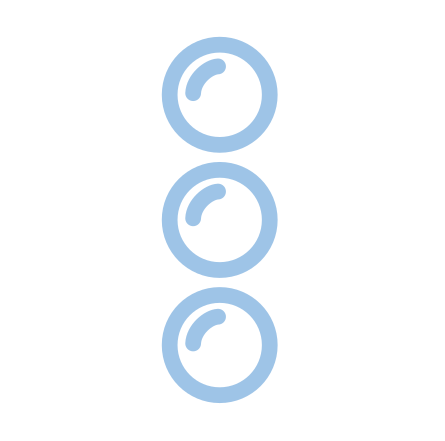
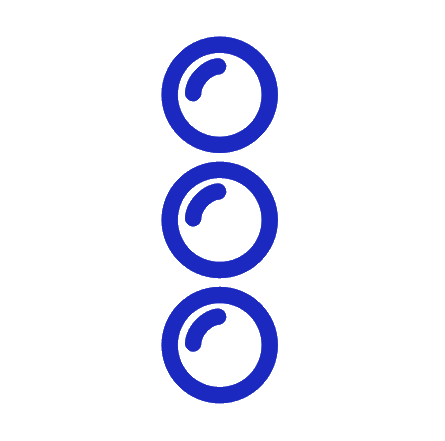
Colour scheme update

Changed region(s): [[0.3506, 0.059, 0.6427, 0.9138]]

diff --git a/html/bubble/css/style.css b/html/bubble/css/style.css
@@ -10,12 +10,12 @@ h2 {
 }
 
 a {
-    color: rgb(109, 171, 166);
+    color: rgb(226, 183, 28);
     font-weight: 900;
 }
 
 a:hover, .nav-link.active {
-    color: rgb(56, 56, 56);
+    color: rgb(226, 183, 28)!important;
 }
 
 .text-center {
@@ -25,15 +25,15 @@ a:hover, .nav-link.active {
 
 .btn-outline-info {
     transition: 0.25s ease;
-    color: rgb(109, 171, 166)!important;
-    border: 2px solid rgb(109, 171, 166)!important;
+    color: rgb(56, 56, 56)!important;
+    border: 2px solid rgb(56, 56, 56)!important;
     font-weight: 900;
 }
 
 .btn-outline-info:hover {
-    color: rgb(109, 171, 166)!important;
-    background-color: rgba(200, 211, 209, 0.7)!important;
-    border: 2px solid rgb(109, 171, 166)!important;
+    color: rgb(56, 56, 56)!important;
+    background-color: rgb(226, 183, 28)!important;
+    border: 2px solid rgb(56, 56, 56)!important;
     transition: 0.25s ease;
     transform: scale(1.05);
     -webkit-transform: scale(1.05);
@@ -50,11 +50,11 @@ ul {
 
 /* Handle */
 ::-webkit-scrollbar-thumb {
-    background: rgb(109, 171, 166);
+    background: rgb(226, 183, 28);
 }
 
 .red-text {
-    color: rgb(109, 171, 166)!important;
+    color: rgb(226, 183, 28)!important;
 }
 
 .front-img {
@@ -62,7 +62,7 @@ ul {
 }
 
 .nav-link {
-    color: rgb(109, 171, 166);
+    color: rgb(56,56,56);
 }
 
 .form-row {
@@ -103,12 +103,30 @@ ul {
     border-top: none;
 }
 
+.card:nth-of-type(even) {
+    border-radius: 0!important;
+}
+
+.card:nth-of-type(odd) {
+    border-radius: 0!important;
+}
+
+.card:nth-last-child(1) {
+    border-bottom-right-radius: 0.25rem!important;
+    border-bottom-left-radius: 0.25rem!important;
+}
+
+.card:nth-child(2) {
+    border-top-right-radius: 0.25rem!important;
+    border-top-left-radius: 0.25rem!important;
+}
+
 .accordion {
     border-bottom: 1px solid rgba(0,0,0,0.125);
 }
 
 .text-light {
-    color: rgb(56, 56, 56)!important;
+    color: rgb(56,56,56)!important;
 }
 
 .mb-4, .my-4 {
@@ -119,11 +137,17 @@ ul {
 }
 
 .my-4 {
-    border: 2px solid rgb(109, 171, 166)!important;
+    border: 2px solid rgb(56, 56, 56)!important;
 }
 
 .grey-out:nth-of-type(odd), .card-header{
-    background-color: rgba(0, 0, 0, 0.05)!important;
+    background-color: rgb(56,56,56)!important;
+    color: rgb(226, 183, 28)!important;
+}
+
+.grey-out:nth-of-type(even) {
+    border-left: 1px solid rgb(56,56,56)!important;
+    border-right: 1px solid rgb(56,56,56)!important;
 }
 
 .col-lg {
@@ -136,7 +160,7 @@ ul {
 }
 
 .navbar.navbar-dark .breadcrumb .nav-item .nav-link, .navbar.navbar-dark .navbar-nav .nav-item .nav-link {
-    color: rgb(109, 171, 166)!important;
+    color: rgb(56,56,56)!important;
 }
 
 .border {
@@ -210,7 +234,8 @@ table td {
 }
 
 .account-row:nth-of-type(even), .account-first, .stats-row:nth-of-type(even), .stats-row:nth-of-type(0) {
-    background-color: rgba(0, 0, 0, 0.05)!important;
+    color: rgb(226, 183, 28)!important;
+    background-color: rgb(56,56,56)!important;
 }
 
 .right-column {
@@ -329,4 +354,8 @@ select {
 
 .budget-input label {
     margin-left: 15px!important;
+}
+
+.text-dark {
+    color: rgb(56, 56, 56)!important;
 }

diff --git a/html/bubble/uiAssets/content_tab_homes.php b/html/bubble/uiAssets/content_tab_homes.php
@@ -282,8 +282,8 @@ function generateHomeTab()
                                                                 labels: ["Spent [£]", "Remaining [£]"],
                                                                 datasets: [{
                                                                 data: [$cost_day_round, $budget_day_remaining_round],
-                                                                backgroundColor: ["rgba(109, 171, 166, 1)", "rgba(0, 0, 0, 0.1)"],
-                                                                hoverBackgroundColor: ["rgba(99, 161, 156, 1)", "rgba(0, 0, 0, 0.15)"]
+                                                                backgroundColor: ["rgb(226, 183, 28)", "rgb(56,56,56)"],
+                                                                hoverBackgroundColor: ["rgb(246, 203, 48)", "rgb(76,76,76)"]
                                                                 }]
                                                                 },
                                                                 options: {
@@ -312,8 +312,8 @@ function generateHomeTab()
                                                             labels: ["Spent [£]", "Remaining [£]"],
                                                             datasets: [{
                                                             data: [$cost_month_round, $budget_remaining_round],
-                                                            backgroundColor: ["rgba(109, 171, 166, 1)", "rgba(0, 0, 0, 0.1)"],
-                                                            hoverBackgroundColor: ["rgba(99, 161, 156, 1)", "rgba(0, 0, 0, 0.15)"]
+                                                            backgroundColor: ["rgb(226, 183, 28)", "rgb(56,56,56)"],
+                                                            hoverBackgroundColor: ["rgb(246, 203, 48)", "rgb(76,76,76)"]
                                                             }]
                                                             },
                                                             options: {
@@ -340,8 +340,8 @@ function generateHomeTab()
                                                                 labels: ["Spent [£]", "Budget [£]"],
                                                                 datasets: [{
                                                                 data: [$cost_year_round, $budget_year_remaining_round],
-                                                                backgroundColor: ["rgba(109, 171, 166, 1)", "rgba(0, 0, 0, 0.1)"],
-                                                                hoverBackgroundColor: ["rgba(99, 161, 156, 1)", "rgba(0, 0, 0, 0.15)"]
+                                                                backgroundColor: ["rgb(226, 183, 28)", "rgb(56,56,56)"],
+                                                                hoverBackgroundColor: ["rgb(246, 203, 48)", "rgb(76,76,76)"]
                                                                 }]
                                                                 },
                                                                 options: {
@@ -385,11 +385,11 @@ function generateHomeTab()
                                         //Supplied Datasets to display
                                         //hourly 1 upto 24
                                         //TODO change expected usage to power genarated once implmented
-                                        let data1 = { "labels": $DataLabelsYearEncoded,"label": "Expected Usage: ", "datasets": [{ "label": "Average", "data": $dataAvgYearEncoded, "backgroundColor": "rgba(109, 171, 166, 0)", "borderColor": "rgba(109, 171, 166, 1)", "borderWidth": 2 },{ "label": "Power Usage", "data": $dataPointsYearEncoded, "backgroundColor": "rgba(0, 0, 0, 0.1)", "borderColor": "rgba(56, 56, 56, 1)", "borderWidth": 1 }] };
+                                        let data1 = { "labels": $DataLabelsYearEncoded,"label": "Expected Usage: ", "datasets": [{ "label": "Average", "data": $dataAvgYearEncoded, "backgroundColor": "rgba(109, 171, 166, 0)", "borderColor": "rgb(226, 183, 28)", "borderWidth": 2 },{ "label": "Power Usage", "data": $dataPointsYearEncoded, "backgroundColor": "rgb(56,56,56)", "borderColor": "rgba(56, 56, 56, 1)", "borderWidth": 1 }] };
                                         //days upto 31 days
-                                        let data2 = { "labels": $DataLabelsMonthEncoded,"label": "Expected Usage:", "datasets": [{ "label": "Average", "data": $dataAvgMonthEncoded, "backgroundColor": "rgba(109, 171, 166, 0)", "borderColor": "rgba(109, 171, 166, 1)", "borderWidth": 2 },{ "label": "Power Usage", "data": $dataPointsMonthEncoded, "backgroundColor": "rgba(0, 0, 0, 0.1)", "borderColor": "rgba(56, 56, 56, 1)", "borderWidth": 1 }] };
+                                        let data2 = { "labels": $DataLabelsMonthEncoded,"label": "Expected Usage:", "datasets": [{ "label": "Average", "data": $dataAvgMonthEncoded, "backgroundColor": "rgba(109, 171, 166, 0)", "borderColor": "rgb(226, 183, 28)", "borderWidth": 2 },{ "label": "Power Usage", "data": $dataPointsMonthEncoded, "backgroundColor": "rgb(56,56,56)", "borderColor": "rgba(56, 56, 56, 1)", "borderWidth": 1 }] };
                                         //months upto 12
-                                        let data3 = { "labels": $DataLabelsDayEncoded,"label": "Expected Usage: ", "datasets": [{ "label": "Average", "data": $dataAvgDayEncoded, "backgroundColor": "rgba(109, 171, 166, 0)", "borderColor": "rgba(109, 171, 166, 1)", "borderWidth": 2 },{ "label": "Power Usage", "data": $dataPointsDayEncoded, "backgroundColor": "rgba(0, 0, 0, 0.1)", "borderColor": "rgba(56, 56, 56, 1)", "borderWidth": 1 }] };
+                                        let data3 = { "labels": $DataLabelsDayEncoded,"label": "Expected Usage: ", "datasets": [{ "label": "Average", "data": $dataAvgDayEncoded, "backgroundColor": "rgba(109, 171, 166, 0)", "borderColor": "rgb(226, 183, 28)", "borderWidth": 2 },{ "label": "Power Usage", "data": $dataPointsDayEncoded, "backgroundColor": "rgb(56,56,56)", "borderColor": "rgba(56, 56, 56, 1)", "borderWidth": 1 }] };
                                         
 
                                         // Draw the initial chart

diff --git a/html/bubble/uiAssets/content_tab_devices.php b/html/bubble/uiAssets/content_tab_devices.php
@@ -21,11 +21,11 @@ function generateDeviceTab(){
         
                 <!--Title-->      
                     <div class="d-flex flex-column">  
-                        Add new device
+                        <strong>Add new device</strong>
                     </div>
                     
                     <div class="d-flex flex-column">
-                        <i class="far fa-plus-square"></i>
+                        <strong><i class="far fa-plus-square"></i></strong>
                     </div>
                 </div>
             </div>
@@ -66,7 +66,6 @@ html;
                 $room_type = $row4['room_name'];
 
                 //todo intagrate in to device page?
-                
 
 
                 $html .= <<<html
@@ -83,7 +82,7 @@ html;
                         <!--Title-->      
                         <div class="d-flex flex-column">  
                             <div class="flex-sm-row">
-                                $icon &nbsp; $device_name
+                                $icon &nbsp; <strong>$device_name</strong>
                             </div>
                             <div class="flex-sm-row">
                                 &nbsp;&nbsp;&nbsp;&nbsp;&nbsp;&nbsp;Room: $room_type
@@ -96,14 +95,15 @@ html;
                             <!-- Default switch -->
                             <div class="custom-control custom-switch">
                                <form action="#" method="POST">
-                                    <input type="checkbox" class="custom-control-input" id="$device_name" name="Group+$room_id" onclick="toggleDevice($device_id)">
-                                    <label class="custom-control-label" for="$device_name">off/on</label>
+                                    <input type="checkbox" class="custom-control-input" id="$device_name" name="Group+$room_id" onclick="alter_database($room_id)">
+                                    <label class="custom-control-label" for="$device_name"><strong>off/on</strong></label>
                                </form>
                             </div>
                         </div>
                     </div>
                 </div>
 html;
+                
                 $stmt3->close();
             }
         }
@@ -120,7 +120,7 @@ function deviceCat($device_type, $device_name)
         $optionType = "<form class=\"range-field\" for=\"$device_name\"><input type=\"range\" min=\"0c\" max=\"40c\" /></form>";
         //todo add option for different temp measurements farnehight, celcus
     } else {
-        $optionType = "<label class=\"custom-control-label\" for=\"$device_name\">off/on</label>";
+        $optionType = "<label class=\"custom-control-label\" for=\"$device_name\"><strong>off/on</strong></label>";
     }
     return $optionType;
 }

diff --git a/html/bubble/uiAssets/content_tab_rooms.php b/html/bubble/uiAssets/content_tab_rooms.php
@@ -29,11 +29,11 @@ function generateRoomTab(){
               
                     <!--Title-->      
                         <div class="d-flex flex-column">  
-                            Add new room
+                            <strong>Add new room</strong>
                         </div>
                         
                         <div class="d-flex flex-column">
-                            <i class="far fa-plus-square"></i>
+                            <strong><i class="far fa-plus-square"></i></strong>
                         </div>
                     </div>
                 </div>
@@ -65,7 +65,7 @@ html;
                     <!--Title-->      
                         <div class="d-flex flex-column">  
                             <div class="row">
-                                $iconText &nbsp; $room_name
+                                $iconText &nbsp; <strong>$room_name</strong>
                             </div>
                         </div>
                         
@@ -74,7 +74,7 @@ html;
                             <div class="custom-control custom-switch">
                                 <form action="#" method="POST">
                                     <input type="checkbox" class="custom-control-input" id="$room_name" name="room+$room_id" onclick="toggleRoom($room_id)">
-                                    <label class="custom-control-label" for="$room_name">off/on</label>
+                                    <label class="custom-control-label" for="$room_name"><strong>off/on</strong></label>
                                 </form>
                             </div>
                             <script>

diff --git a/html/bubble/required/DataGen/dynamic_data.php b/html/bubble/required/DataGen/dynamic_data.php
@@ -77,15 +77,15 @@ if ($result->num_rows >= 1) {
                         if($ip != ''){
                             if($row4['type_id'] == 2){
                                 if ($temp <= 17){
-                                    $variable_consumption = $variable_consumption + ($row4['energy_usage'*(rand(30,70)/100)];
+                                    $variable_consumption = $variable_consumption + ($row4['energy_usage']*(rand(30,70)/100));
                                 } else if ($temp <= 13){
-                                    $variable_consumption = $variable_consumption + ($row4['energy_usage'*(rand(70,100)/100)];
+                                    $variable_consumption = $variable_consumption + ($row4['energy_usage']*(rand(70,100)/100));
                                 }
                             } else if ($row4['type_id'] == 3){
                                 if ($temp >= 26){
-                                    $variable_consumption = $variable_consumption + ($row4['energy_usage'*(rand(30,70)/100)];
+                                    $variable_consumption = $variable_consumption + ($row4['energy_usage']*(rand(30,70)/100));
                                 } else if ($temp >= 30){
-                                    $variable_consumption = $variable_consumption + ($row4['energy_usage'*(rand(70,100)/100)];
+                                    $variable_consumption = $variable_consumption + ($row4['energy_usage']*(rand(70,100)/100));
                                 }
                             } else {
                                 if($status == 'idle'){

diff --git a/html/bubble/required/DataGen/button_data.php b/html/bubble/required/DataGen/button_data.php
@@ -1,0 +1,7 @@
+<?php
+include_once '../config.php';
+global $db;
+
+
+
+?>
